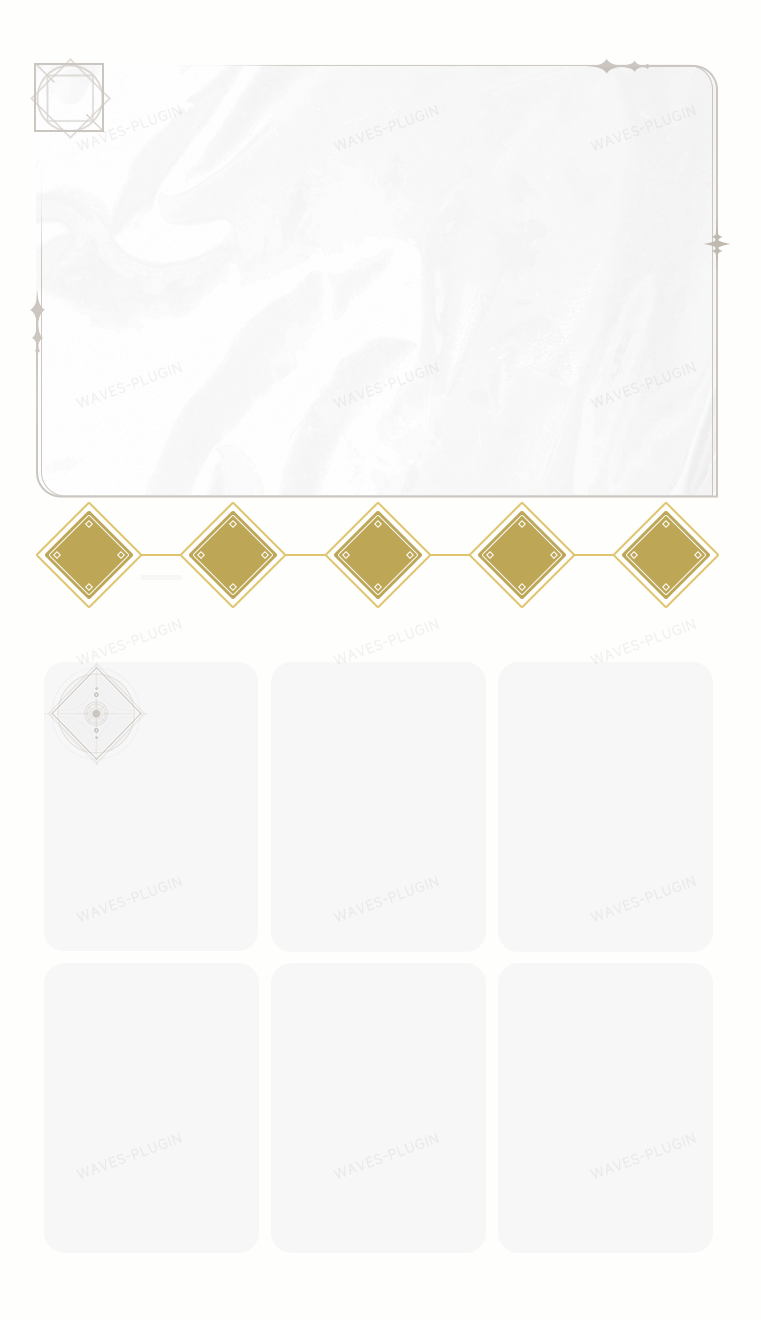
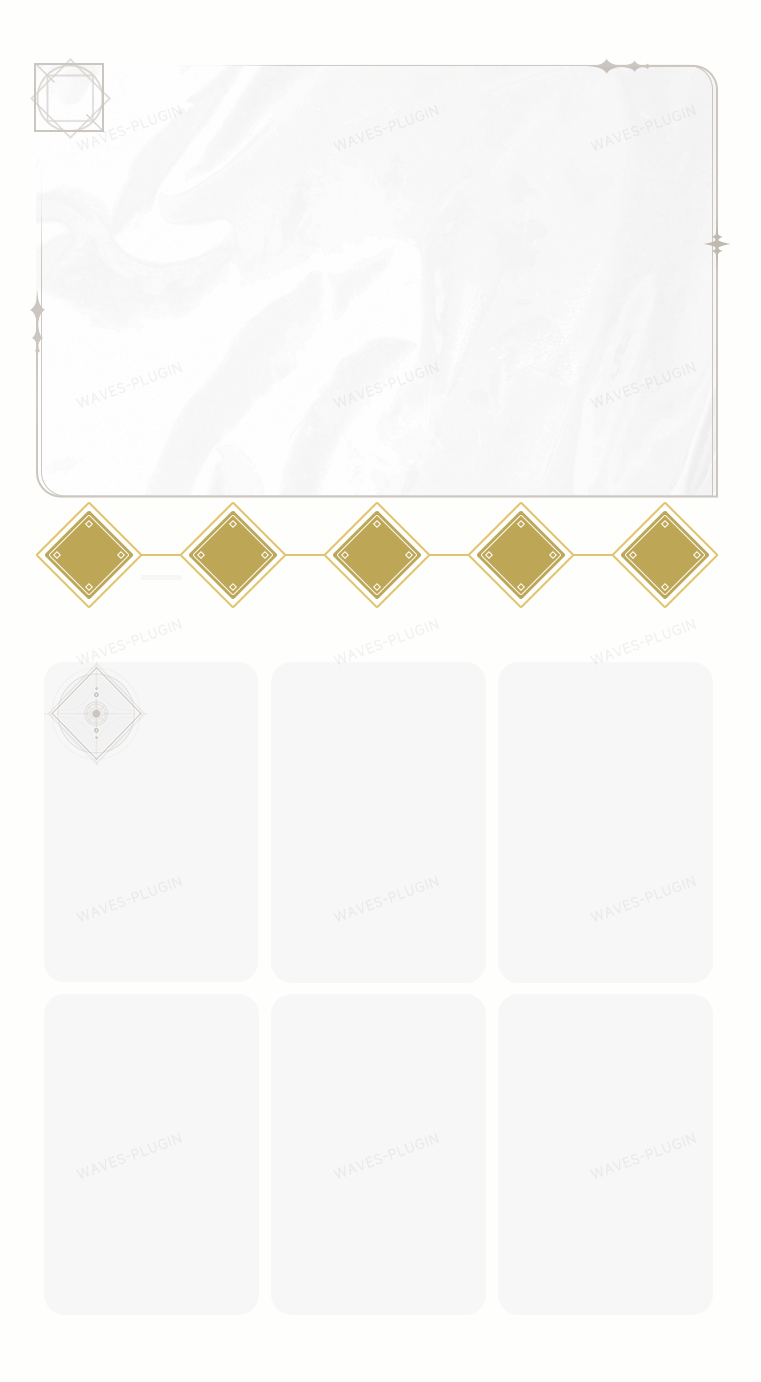
修复面板词条数量，字体资源路径

diff --git a/resources/Template/charProfile/charProfile.css b/resources/Template/charProfile/charProfile.css
@@ -1,6 +1,6 @@
 @font-face {
   font-family: "MiSans";
-  src: url("../../Fonts/MiSans-Regular.ttf");
+  src: url("../../fonts/MiSans-Regular.ttf");
   font-weight: normal;
   font-style: normal;
 }
@@ -15,7 +15,7 @@
 
 #container {
   width: 761px;
-  height: 1320px;
+  height: 1382px;
   background-image: url(./imgs/rolecard.png);
 }
 
@@ -149,7 +149,7 @@
   display: grid;
   grid-template-columns: 214px 214px 214px;
   column-gap: 13px;
-  row-gap: 9px;
+  row-gap: 12px;
   height: 593px;
   width: 668px;
 }
@@ -157,7 +157,7 @@
 #table>* {
   position: relative;
   width: 214px;
-  height: 292px;
+  height: 320px;
   text-align: center;
   border-radius: 20px;
   overflow: hidden;
@@ -229,7 +229,7 @@
   height: 186px;
   color: #7b7774;
   padding: 14px 14px 14px 14px;
-  font-size: 14px;
+  font-size: 15px;
   border-radius: 0px 0px 15px 15px;
   text-align: left;
 }

diff --git a/resources/Template/simulatorGacha/simulatorGacha.html b/resources/Template/simulatorGacha/simulatorGacha.html
@@ -5,7 +5,7 @@
         <meta http-equiv="content-type" content="text/html;charset=utf-8" />
         <link rel="shortcut icon" href="#" />
         <link rel="stylesheet" type="text/css" href="{{pluginResources}}/Template/simulatorGacha/simulatorGacha.css" />
-        <link rel="preload" href="{{pluginResources}}/Fonts/MiSans-Regular.ttf" as="font" />
+        <link rel="preload" href="{{pluginResources}}/fonts/MiSans-Regular.ttf" as="font" />
         <style>
                 .frame-5 {
                         box-shadow: 0 0 50px rgba(251, 235, 103, 0.5);

diff --git a/resources/Template/charProfile/charProfile.html b/resources/Template/charProfile/charProfile.html
@@ -5,7 +5,7 @@
     <meta http-equiv="content-type" content="text/html;charset=utf-8" />
     <link rel="shortcut icon" href="#" />
     <link rel="stylesheet" type="text/css" href="{{pluginResources}}/Template/charProfile/charProfile.css" />
-    <link rel="preload" href="{{pluginResources}}/Fonts/MiSans-Regular.ttf" as="font" />
+    <link rel="preload" href="{{pluginResources}}/fonts/MiSans-Regular.ttf" as="font" />
 </head>
 
 <body id="body" data-content='{{data}}'>

diff --git a/resources/Template/challengeDetails/challengeDetails.html b/resources/Template/challengeDetails/challengeDetails.html
@@ -5,7 +5,7 @@
     <meta http-equiv="content-type" content="text/html;charset=utf-8" />
     <link rel="shortcut icon" href="#" />
     <link rel="stylesheet" type="text/css" href="{{pluginResources}}/Template/challengeDetails/challengeDetails.css" />
-    <link rel="preload" href="{{pluginResources}}/Fonts/MiSans-Regular.ttf" as="font" />
+    <link rel="preload" href="{{pluginResources}}/fonts/MiSans-Regular.ttf" as="font" />
 </head>
 
 <body id="body">

diff --git a/resources/Wiki/relics/relics.html b/resources/Wiki/relics/relics.html
@@ -5,7 +5,7 @@
     <meta http-equiv="content-type" content="text/html;charset=utf-8" />
     <link rel="shortcut icon" href="#" />
     <link rel="stylesheet" type="text/css" href="{{pluginResources}}/Wiki/relics/relics.css" />
-    <link rel="preload" href="{{pluginResources}}/Fonts/MiSans-Regular.ttf" as="font" />
+    <link rel="preload" href="{{pluginResources}}/fonts/MiSans-Regular.ttf" as="font" />
 </head>
 
 <body id="body" data-content='{{data}}'>

diff --git a/resources/Wiki/weapon/weapon.html b/resources/Wiki/weapon/weapon.html
@@ -5,7 +5,7 @@
     <meta http-equiv="content-type" content="text/html;charset=utf-8" />
     <link rel="shortcut icon" href="#" />
     <link rel="stylesheet" type="text/css" href="{{pluginResources}}/Wiki/weapon/weapon.css" />
-    <link rel="preload" href="{{pluginResources}}/Fonts/MiSans-Regular.ttf" as="font" />
+    <link rel="preload" href="{{pluginResources}}/fonts/MiSans-Regular.ttf" as="font" />
 </head>
 
 <body id="body" data-content='{{data}}'>

diff --git a/resources/Wiki/enemy/enemy.html b/resources/Wiki/enemy/enemy.html
@@ -5,7 +5,7 @@
     <meta http-equiv="content-type" content="text/html;charset=utf-8" />
     <link rel="shortcut icon" href="#" />
     <link rel="stylesheet" type="text/css" href="{{pluginResources}}/Wiki/enemy/enemy.css" />
-    <link rel="preload" href="{{pluginResources}}/Fonts/MiSans-Regular.ttf" as="font" />
+    <link rel="preload" href="{{pluginResources}}/fonts/MiSans-Regular.ttf" as="font" />
 </head>
 
 <body id="body" data-content='{{data}}'>

diff --git a/resources/Wiki/props/props.html b/resources/Wiki/props/props.html
@@ -5,7 +5,7 @@
     <meta http-equiv="content-type" content="text/html;charset=utf-8" />
     <link rel="shortcut icon" href="#" />
     <link rel="stylesheet" type="text/css" href="{{pluginResources}}/Wiki/props/props.css" />
-    <link rel="preload" href="{{pluginResources}}/Fonts/MiSans-Regular.ttf" as="font" />
+    <link rel="preload" href="{{pluginResources}}/fonts/MiSans-Regular.ttf" as="font" />
 </head>
 
 <body id="body" data-content='{{data}}'>

diff --git a/resources/Wiki/role/role.html b/resources/Wiki/role/role.html
@@ -5,7 +5,7 @@
     <meta http-equiv="content-type" content="text/html;charset=utf-8" />
     <link rel="shortcut icon" href="#" />
     <link rel="stylesheet" type="text/css" href="{{pluginResources}}/Wiki/role/role.css" />
-    <link rel="preload" href="{{pluginResources}}/Fonts/MiSans-Regular.ttf" as="font" />
+    <link rel="preload" href="{{pluginResources}}/fonts/MiSans-Regular.ttf" as="font" />
 </head>
 
 <body id="body" data-content='{{data}}'>

diff --git a/resources/Template/exploreIndex/exploreIndex.html b/resources/Template/exploreIndex/exploreIndex.html
@@ -5,7 +5,7 @@
     <meta http-equiv="content-type" content="text/html;charset=utf-8" />
     <link rel="shortcut icon" href="#" />
     <link rel="stylesheet" type="text/css" href="{{pluginResources}}/Template/exploreIndex/exploreIndex.css" />
-    <link rel="preload" href="{{pluginResources}}/Fonts/MiSans-Regular.ttf" as="font" />
+    <link rel="preload" href="{{pluginResources}}/fonts/MiSans-Regular.ttf" as="font" />
 </head>
 
 <body id="body">

diff --git a/resources/Template/gachaCount/gachaCount.html b/resources/Template/gachaCount/gachaCount.html
@@ -5,7 +5,7 @@
     <meta http-equiv="content-type" content="text/html;charset=utf-8" />
     <link rel="shortcut icon" href="#" />
     <link rel="stylesheet" type="text/css" href="{{pluginResources}}/Template/gachaCount/gachaCount.css" />
-    <link rel="preload" href="{{pluginResources}}/Fonts/MiSans-Regular.ttf" as="font" />
+    <link rel="preload" href="{{pluginResources}}/fonts/MiSans-Regular.ttf" as="font" />
 </head>
 
 <body id="body">

diff --git a/resources/Template/dailyData/dailyData.html b/resources/Template/dailyData/dailyData.html
@@ -5,7 +5,7 @@
     <meta http-equiv="content-type" content="text/html;charset=utf-8" />
     <link rel="shortcut icon" href="#" />
     <link rel="stylesheet" type="text/css" href="{{pluginResources}}/Template/dailyData/dailyData.css" />
-    <link rel="preload" href="{{pluginResources}}/Fonts/MiSans-Regular.ttf" as="font" />
+    <link rel="preload" href="{{pluginResources}}/fonts/MiSans-Regular.ttf" as="font" />
 </head>
 
 <body id="body">
